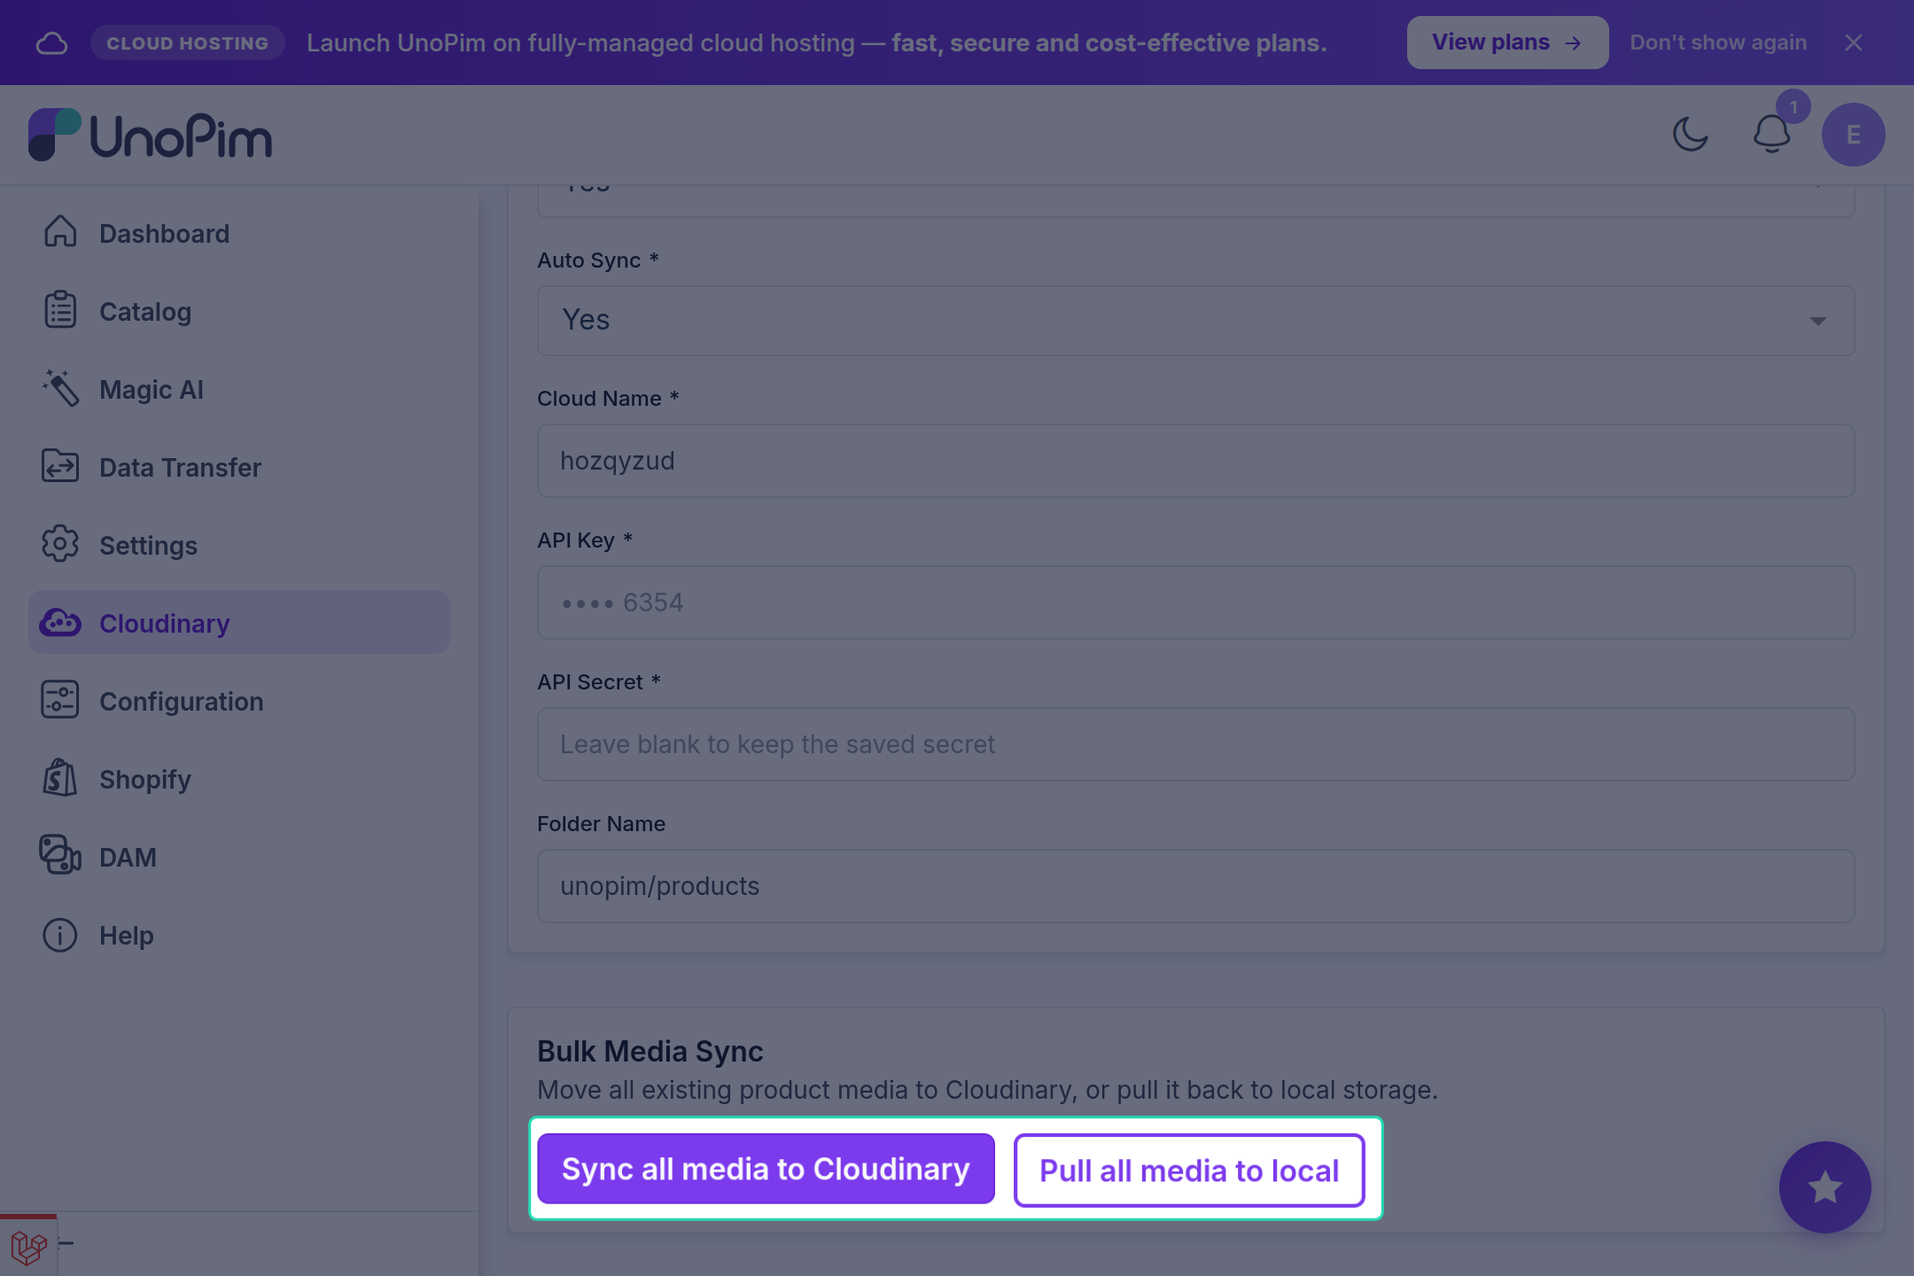
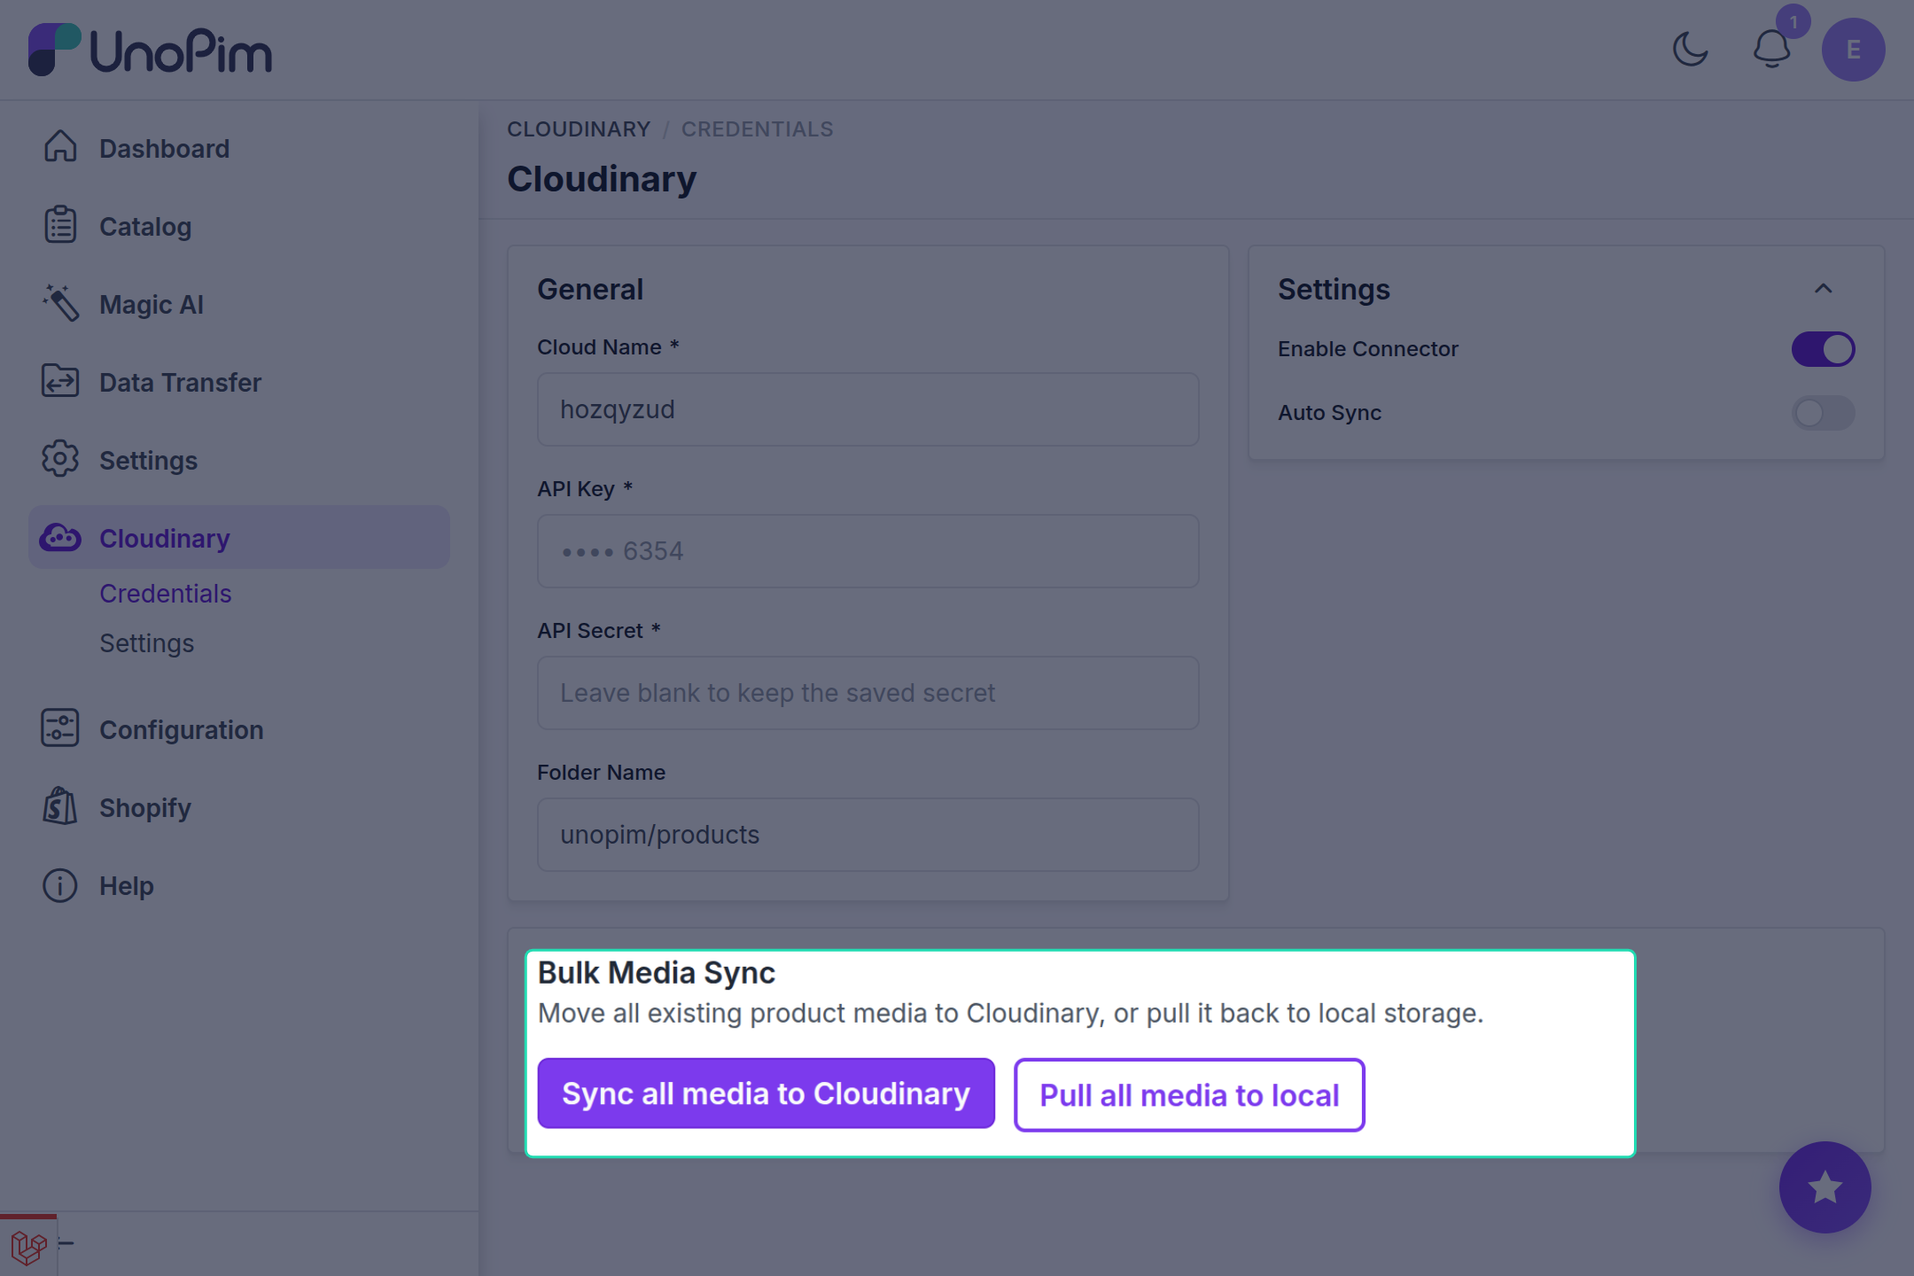
update: updates the docs

diff --git a/docs/cloudinary/transformations.md b/docs/cloudinary/transformations.md
@@ -1,0 +1,173 @@
+# Dynamic Image Transformations & Transfer Settings
+
+The **UnoPim Cloudinary Connector** includes a powerful dynamic image transformation and transfer pipeline. Rather than generating multiple static image variations on your server disk, the connector leverages Cloudinary's dynamic CDN transformations to optimize, crop, resize, and transfer product images on the fly.
+
+This architecture ensures your original catalog assets remain safely stored in their native high resolution while your storefronts, export channels, and UnoPim admin screens receive blazing-fast, responsive, and perfectly optimized media.
+
+---
+
+## Accessing Transformation Settings
+
+1. Log in to your UnoPim admin panel.
+2. In the left navigation sidebar, navigate to **Cloudinary → Settings**.
+
+<!-- ============================================================ -->
+<!-- SCREENSHOT PLACEHOLDER: Cloudinary Settings Page Overview    -->
+<!-- IMAGE_NAME: cloudinary-transformation-settings.png           -->
+<!-- Location: docs/cloudinary/images/cloudinary-transformation-settings.png -->
+<!-- Description: Full page view of the Cloudinary Settings screen showing the Image Optimization and Resize & Crop cards -->
+<!-- ============================================================ -->
+![Cloudinary Settings Page](./images/cloudinary-transformation-settings.png)
+
+From this screen, you can configure format and quality optimization, content-aware AI focus, default crop algorithms, and target dimensions.
+
+---
+
+## 1. Automated Dynamic Image Optimization
+
+Serving unoptimized or inappropriately formatted images degrades catalog performance, slows down storefronts, and increases bounce rates. The connector provides two automated, zero-maintenance optimization toggles:
+
+<!-- ============================================================ -->
+<!-- SCREENSHOT PLACEHOLDER: Image Optimization Settings Card     -->
+<!-- IMAGE_NAME: cloudinary-optimization-settings.png             -->
+<!-- Location: docs/cloudinary/images/cloudinary-optimization-settings.png -->
+<!-- Description: Focused view of the Image Optimization Settings card showing f_auto, q_auto, and g_auto switches -->
+<!-- ============================================================ -->
+![Image Optimization Settings](./images/cloudinary-optimization-settings.png)
+
+### Automatic Format & Quality Optimization (`f_auto, q_auto`)
+
+- **Dynamic Format Delivery (`f_auto`)**:
+  - Cloudinary inspects the incoming request's `Accept` HTTP header and the visitor's browser or device capabilities.
+  - Automatically delivers next-generation image formats such as **AVIF** or **WebP** when supported by the client.
+  - Automatically falls back to high-grade **JPEG** or **PNG** for older browsers or legacy client applications without requiring separate file uploads.
+- **Intelligent Perceptual Compression (`q_auto`)**:
+  - Employs advanced psychovisual algorithms to analyze each image's unique visual content, texture complexity, and edge details.
+  - Adjusts compression levels dynamically to achieve maximum byte savings while maintaining visually lossless fidelity.
+  - Eliminates human guesswork in balancing quality settings versus file weight.
+
+::: tip Proven Bandwidth Reduction
+Enabling **Automatic Format & Quality Optimization** typically reduces image payload by **40% to 70%** across product catalog galleries, drastically speeding up catalog page loads and improving SEO Core Web Vitals (LCP/CLS).
+:::
+
+---
+
+### Smart AI Gravity & Object Focus (`g_auto`)
+
+When images of varying aspect ratios are cropped to fit uniform catalog cards or square thumbnails, standard center-point cropping can inadvertently cut off shoes, jewelry, model faces, or apparel edges.
+
+- **Content-Aware AI Detection**: Cloudinary's AI gravity engine analyzes image composition to identify the primary subject, bounding silhouette, and focal highlights.
+- **Dynamic Viewport Centering**: When cropping or scaling, the viewport automatically centers on the detected subject, ensuring critical product features are never clipped.
+- **URL Parameter**: Injects `g_auto` into generated Cloudinary URLs.
+
+---
+
+## 2. Dynamic Resize & Cropping Architecture
+
+Standardize catalog image presentation across your catalog channels without manually re-uploading resized variations.
+
+<!-- ============================================================ -->
+<!-- SCREENSHOT PLACEHOLDER: Resize & Crop Settings Card          -->
+<!-- IMAGE_NAME: cloudinary-crop-settings.png                     -->
+<!-- Location: docs/cloudinary/images/cloudinary-crop-settings.png -->
+<!-- Description: Focused view of the Resize & Crop Settings card showing the Crop Mode dropdown and Width/Height inputs -->
+<!-- ============================================================ -->
+![Resize & Crop Settings](./images/cloudinary-crop-settings.png)
+
+### Crop Mode Options
+
+Select the desired cropping algorithm from the **Default Crop Mode** dropdown:
+
+| Crop Mode | Code | Technical Behavior | Best For |
+|---|---|---|---|
+| **None (Original)** | `none` | Retains the original dimensions and aspect ratio without injecting any crop flags. | High-resolution zoom views and archival inspection. |
+| **Fill & Crop** | `c_fill` | Resizes the image to completely fill the specified width and height. Crops excess outer edges without stretching or aspect distortion. | Uniform product grids, square catalog tiles, and category thumbnails. |
+| **Fit Within** | `c_fit` | Proportionally scales down the image so that its largest dimension fits within the bounding box. Zero cropping occurs; all original pixels remain visible. | Responsive product detail cards, mobile previews, and diverse product categories. |
+| **Fit & Add Padding** | `c_pad` | Resizes the image to fit within the bounding box and pads the remaining background borders with white or transparent padding. | Maintaining identical canvas sizes across mixed portrait, square, and landscape catalog photos. |
+| **Scale Width / Height** | `c_scale` | Resizes width and height directly while preserving the original aspect ratio. | Basic proportional dimension scaling. |
+
+---
+
+### Default Dimensions (Width & Height)
+
+- **Default Width (px)**: Enter target width in pixels (e.g., `800`). Optional.
+- **Default Height (px)**: Enter target height in pixels (e.g., `800`). Optional.
+
+::: info Intelligent Fallback Protection
+If you specify a **Default Width** or **Default Height** but leave **Default Crop Mode** set to `None`, the connector automatically applies **`c_fit`**. This safety mechanism prevents images from being inadvertently distorted or stretched by missing crop parameters.
+:::
+
+---
+
+## 3. Dynamic Image Transfer & Swapping Pipeline
+
+The Cloudinary Connector integrates deeply into UnoPim's core media subsystem to dynamically swap local file paths with secure Cloudinary CDN delivery URLs.
+
+### Dynamic Catalog Display (`ProductImage`)
+
+- The connector extends UnoPim's native `ProductImage` service.
+- Whenever product base images (`getProductBaseImage()`) or gallery images (`getGalleryImages()`) are requested, UnoPim automatically resolves:
+  - `small_image_url`
+  - `medium_image_url`
+  - `large_image_url`
+  - `original_image_url`
+- Each variant dynamically receives the Cloudinary CDN URL equipped with your active transformation string (`f_auto,q_auto,g_auto,c_fill,w_800,h_800`).
+
+---
+
+### Cache Busting with Asset Versioning (`_cb=v...`)
+
+When a product image is updated or re-uploaded with the same filename:
+- The connector retrieves the asset version assigned by Cloudinary.
+- Appends a cache-busting query parameter (e.g., `?_cb=v1712345678`) to the delivery URL.
+- This ensures web browsers and CDN edge caches immediately display the newly uploaded asset without waiting for HTTP cache expiration.
+
+---
+
+### Dynamic Transfer During Product Export & Quick Export
+
+When exporting catalog data from UnoPim to downstream ecommerce channels:
+
+- **Full Catalog Exports**: The connector's `ProductExporter` intercepts media columns (`image`, `gallery`, `file`, and DAM `asset` types) during standard export jobs.
+- **Quick Export from DataGrid**: When performing quick exports directly from the Product DataGrid, `ProductDataGrid` automatically replaces local file paths with active Cloudinary URLs.
+- **Omnichannel Compatibility**: Channels such as Shopify, Magento 2, WooCommerce, and BigCommerce receive direct, publicly accessible CDN links without requiring manual file uploads.
+
+---
+
+## 4. Transformation Audit Trail & Version History
+
+UnoPim tracks all changes made to your Cloudinary transformation settings so teams can review who made adjustments and when.
+
+<!-- ============================================================ -->
+<!-- SCREENSHOT PLACEHOLDER: Settings History & Audit Trail       -->
+<!-- IMAGE_NAME: cloudinary-history-diff.png                      -->
+<!-- Location: docs/cloudinary/images/cloudinary-history-diff.png -->
+<!-- Description: History audit screen showing diff of old vs new values for crop mode, width, height, and optimization flags -->
+<!-- ============================================================ -->
+![Transformation Settings History](./images/cloudinary-history-diff.png)
+
+1. On the **Cloudinary → Settings** page, click the **History** button at the top right.
+2. The audit trail displays chronological records of modifications to:
+   - Automatic format & quality optimization toggle
+   - Smart AI gravity toggle
+   - Default crop mode
+   - Default width & height
+
+---
+
+## 5. Delivery URL Reference Examples
+
+The table below illustrates how the connector constructs dynamic Cloudinary URLs based on active settings:
+
+| Active Settings | Generated Delivery URL Pattern |
+|---|---|
+| **Default Optimization Only** | `https://res.cloudinary.com/<cloud>/image/upload/f_auto,q_auto,g_auto/v1/unopim/products/item.jpg?_cb=v1` |
+| **Optimization + Square Crop (800x800)** | `https://res.cloudinary.com/<cloud>/image/upload/f_auto,q_auto,g_auto,c_fill,w_800,h_800/v1/unopim/products/item.jpg?_cb=v1` |
+| **Proportional Bounding Box (1200x900)** | `https://res.cloudinary.com/<cloud>/image/upload/f_auto,q_auto,c_fit,w_1200,h_900/v1/unopim/products/item.jpg?_cb=v1` |
+| **Padded Canvas with Transparent Border** | `https://res.cloudinary.com/<cloud>/image/upload/f_auto,q_auto,c_pad,w_1000,h_1000/v1/unopim/products/item.jpg?_cb=v1` |
+
+---
+
+## Next Steps
+
+- Proceed to [Media Synchronization](./sync-media.md) to migrate your product catalog media.

diff --git a/docs/cloudinary/setup.md b/docs/cloudinary/setup.md
@@ -7,13 +7,17 @@ After installing the connector, the next step is connecting your Cloudinary acco
 ## Accessing the Configuration Page
 
 1. Log in to your UnoPim admin panel.
-2. In the left-hand navigation sidebar, click on **Cloudinary**.
+2. In the left-hand navigation sidebar, click on **Cloudinary → Credentials**.
 
-<!-- Screenshot Placeholder: Cloudinary Sidebar Menu -->
-<!-- TODO: Add screenshot showing UnoPim left sidebar with Cloudinary menu clicked -->
+<!-- ============================================================ -->
+<!-- SCREENSHOT PLACEHOLDER: Cloudinary Sidebar Navigation        -->
+<!-- IMAGE_NAME: cloudinary-sidebar-menu.png                      -->
+<!-- Location: docs/cloudinary/images/cloudinary-sidebar-menu.png -->
+<!-- Description: UnoPim left navigation bar showing Cloudinary expanded with Credentials and Settings submenus -->
+<!-- ============================================================ -->
 ![Cloudinary Menu Navigation](./images/cloudinary-sidebar-menu.png)
 
-You will be redirected to the **Cloudinary Configuration** page.
+You will be directed to the **Cloudinary Connector Configuration** page.
 
 ---
 
@@ -21,8 +25,12 @@ You will be redirected to the **Cloudinary Configuration** page.
 
 Fill in the configuration fields using the credentials obtained from your Cloudinary Console (refer to [Cloudinary Setup](./cloudinary-setup.md)):
 
-<!-- Screenshot Placeholder: Cloudinary Configuration Form -->
-<!-- TODO: Add screenshot showing the UnoPim Cloudinary Configuration form with fields filled in -->
+<!-- ============================================================ -->
+<!-- SCREENSHOT PLACEHOLDER: Cloudinary Credentials Form          -->
+<!-- IMAGE_NAME: cloudinary-configuration-form.png                -->
+<!-- Location: docs/cloudinary/images/cloudinary-configuration-form.png -->
+<!-- Description: Full page view of the Cloudinary Credentials configuration form (/admin/cloudinary/credentials) -->
+<!-- ============================================================ -->
 ![Cloudinary Configuration Form](./images/cloudinary-configuration-form.png)
 
 ### Field Reference
@@ -31,7 +39,7 @@ Fill in the configuration fields using the credentials obtained from your Cloudi
 |---|---|---|
 | **Enable Connector** | Required | Toggle **Yes** to activate Cloudinary integration, or **No** to keep it inactive. |
 | **Auto Sync Product Images** | Required (if Enabled) | When set to **Yes**, product media is automatically uploaded to Cloudinary whenever a product is created or updated in UnoPim. |
-| **Cloud Name** | Required (if Enabled) | Your unique Cloudinary cloud identifier (e.g., `hozqyzud`). |
+| **Cloud Name** | Required (if Enabled) | Your unique Cloudinary cloud identifier (e.g., `unopim-cloud`). |
 | **API Key** | Required (if Enabled) | The API Key generated from your Cloudinary console. |
 | **API Secret** | Required (if Enabled) | The API Secret generated alongside your API Key. Once saved, UnoPim encrypts and masks this field for security. |
 | **Folder Name** | Optional | Target directory path in Cloudinary where media will be organized. Defaults to `unopim/products`. |
@@ -59,4 +67,8 @@ If you ever need to disable the connector:
 Before setting **Enable Connector** to **No**, always use the **Pull all media to local** button in the Bulk Media Sync section. This ensures all product images stored on Cloudinary are downloaded back to your local UnoPim storage, preventing broken image links.
 :::
 
-Head over to [Media Synchronization](./sync-media.md) to learn how to synchronize your existing product images.
+---
+
+## Next Step: Image Transformations
+
+Once your credentials are authenticated, configure dynamic image resizing, automated WebP/AVIF formatting, and AI object focus in [Image Transformations & Optimization](./transformations.md).

diff --git a/docs/cloudinary/index.md b/docs/cloudinary/index.md
@@ -9,6 +9,9 @@ Instead of keeping product assets on your local web server, the connector offloa
 ## Core Capabilities
 
 - **Automatic Media Sync:** Automatically upload new product images and gallery media to Cloudinary when products are saved.
+- **Dynamic Image Optimization:** Automatically serve images in modern formats (`f_auto`) such as WebP/AVIF with intelligent compression quality (`q_auto`).
+- **Smart AI Gravity & Focus:** Keep product focal points centered (`g_auto`) during responsive cropping and thumbnail generation.
+- **Flexible Resize & Crop Modes:** Choose from standard cropping algorithms (`c_fill`, `c_fit`, `c_pad`, `c_scale`, `none`) with default catalog width and height parameters.
 - **Bulk Media Synchronization:** Push existing catalog media from local storage to Cloudinary with one click or via CLI command.
 - **Bi-Directional Pull:** Safely pull media back from Cloudinary to local storage before disabling the connector or performing maintenance.
 - **Custom Folder Organization:** Specify a dedicated folder path in Cloudinary (e.g., `unopim/products`) to keep catalog assets organized.
@@ -33,5 +36,6 @@ Before installing the connector, verify that your environment meets the followin
 
 1. [Cloudinary Setup](./cloudinary-setup.md) - Find your Cloud Name, API Key, and API Secret in the Cloudinary Console.
 2. [Installation](./installation.md) - Register the package, run migrations, and configure permissions.
-3. [Setup Credentials & Settings](./setup.md) - Configure credentials and media sync behavior inside UnoPim.
-4. [Media Synchronization](./sync-media.md) - Manage bulk media sync and CLI synchronization.
+3. [Setup Credentials](./setup.md) - Configure credentials and media sync behavior inside UnoPim.
+4. [Image Transformations](./transformations.md) - Configure automatic optimization, AI focus, and crop modes.
+5. [Media Synchronization](./sync-media.md) - Manage bulk media sync and CLI synchronization.

diff --git a/docs/cloudinary/sync-media.md b/docs/cloudinary/sync-media.md
@@ -16,10 +16,14 @@ When **Auto Sync Product Images** is set to **Yes** in the connector configurati
 
 ## 2. Bulk Media Sync via Admin UI
 
-If you already have existing products with local images prior to installing the connector, or if you need to migrate media between local storage and Cloudinary in batch, use the **Bulk Media Sync** section located on the Cloudinary settings page.
+If you already have existing products with local images prior to installing the connector, or if you need to migrate media between local storage and Cloudinary in batch, use the **Bulk Media Sync** section located at the bottom of the Cloudinary configuration page (**Cloudinary → Credentials**).
 
-<!-- Screenshot Placeholder: Bulk Media Sync Section -->
-<!-- TODO: Add screenshot of the Bulk Media Sync section at the bottom of the Cloudinary configuration page -->
+<!-- ============================================================ -->
+<!-- SCREENSHOT PLACEHOLDER: Bulk Media Sync Section              -->
+<!-- IMAGE_NAME: bulk-media-sync.png                              -->
+<!-- Location: docs/cloudinary/images/bulk-media-sync.png         -->
+<!-- Description: Bulk Media Sync card showing Sync all media and Pull all media buttons -->
+<!-- ============================================================ -->
 ![Bulk Media Sync Section](./images/bulk-media-sync.png)
 
 ### Sync all media to Cloudinary

diff --git a/docs/cloudinary/installation.md b/docs/cloudinary/installation.md
@@ -83,13 +83,18 @@ To allow admin users to access and manage the connector:
 2. Navigate to **Settings → Roles**.
 3. Edit the desired user role (e.g., Administrator).
 4. Under the **Permissions** tree, ensure the **Cloudinary** permissions are checked:
-   - **Cloudinary** - Base permission to view the menu item.
-   - **Settings** - View and update Cloudinary credentials.
+   - **Cloudinary** - Base permission to view the Cloudinary navigation section.
+   - **Credentials** - View and update Cloudinary API credentials.
+   - **Settings** - View and update image transformation and optimization settings.
    - **Products** - Sync product media with Cloudinary.
 5. Click **Save Role**.
 
-<!-- Screenshot Placeholder: Role Permissions -->
-<!-- TODO: Add screenshot showing UnoPim Settings -> Roles -> Cloudinary permissions enabled -->
+<!-- ============================================================ -->
+<!-- SCREENSHOT PLACEHOLDER: Role Permissions                     -->
+<!-- IMAGE_NAME: role-permissions.png                             -->
+<!-- Location: docs/cloudinary/images/role-permissions.png        -->
+<!-- Description: UnoPim Settings -> Roles -> Permissions tree with Cloudinary, Credentials, Settings, and Products checked -->
+<!-- ============================================================ -->
 ![Role Permissions](./images/role-permissions.png)
 
 ---
